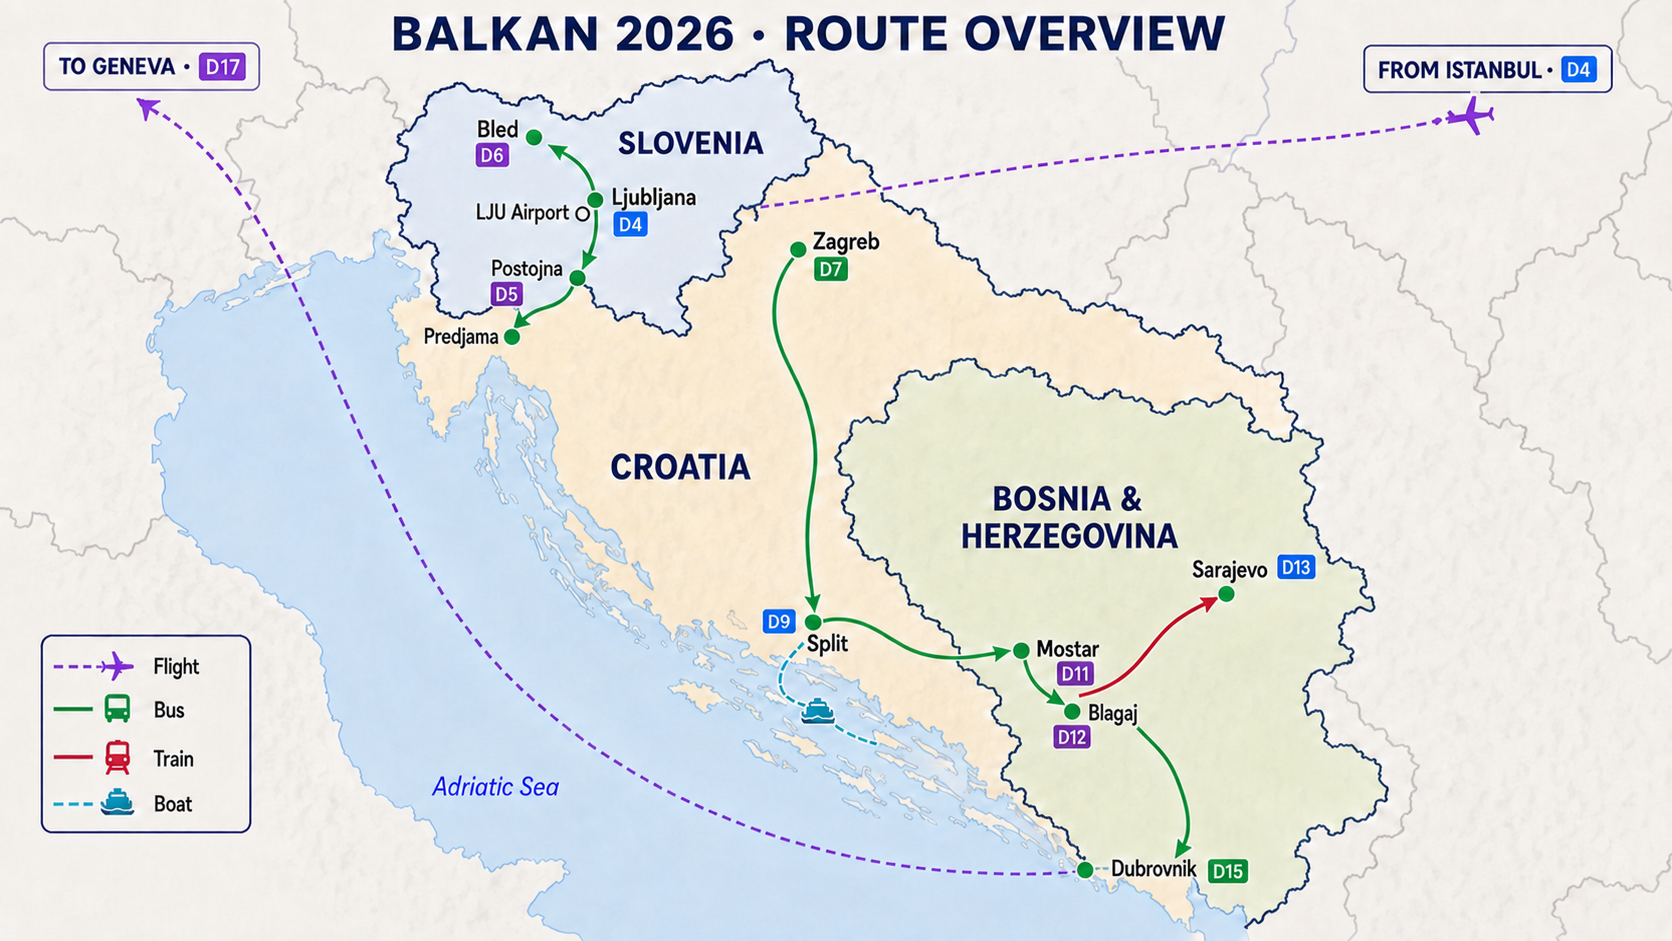
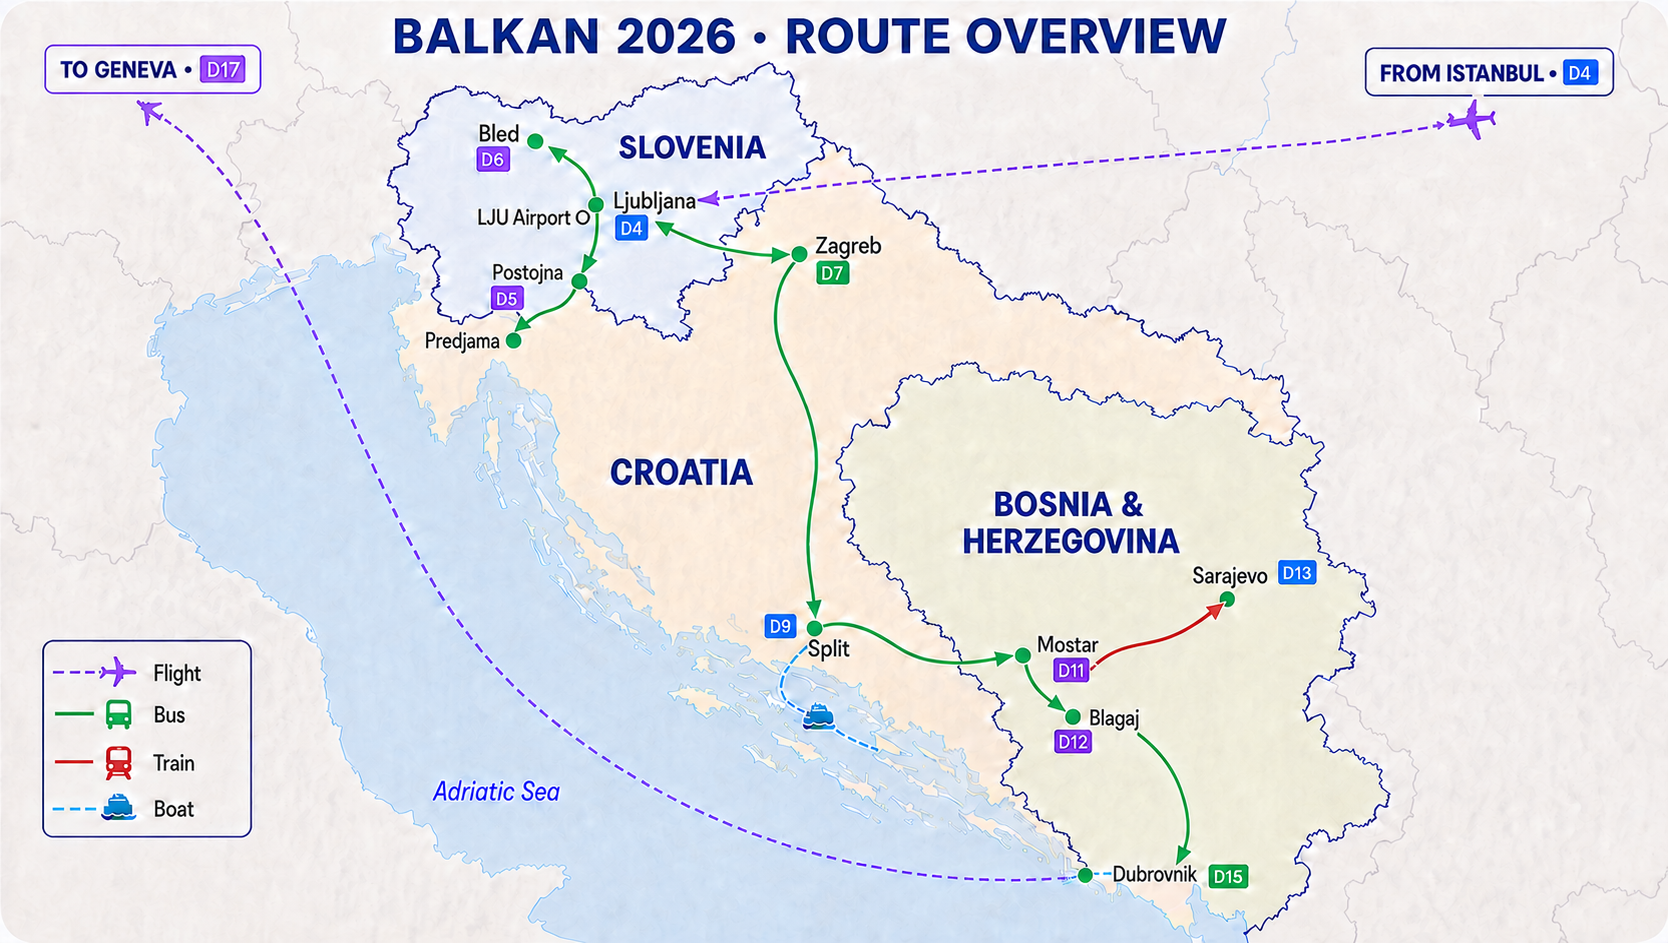
Correct route connections
Connect the D4 flight to Ljubljana, add the D7 bus route,
and correct the D13 train origin to Mostar.

diff --git a/index.html b/index.html
@@ -56,7 +56,7 @@
         <div class="route-cover-head">
           <div><span class="kicker">ROUTE OVERVIEW</span><h2 id="route-cover-title">最新路線規劃</h2></div>
         </div>
-        <img class="route-map-image" src="assets/balkan-route-map-v4.13.png?v=4.13.1" alt="Balkan 2026：Slovenia、Croatia 與 Bosnia 最新交通路線圖">
+        <img class="route-map-image" src="assets/balkan-route-map-v4.13.png?v=4.14.0" alt="Balkan 2026：Slovenia、Croatia 與 Bosnia 最新交通路線圖">
       </section>
 
       <section class="home-cockpit reveal">

diff --git a/sw.js b/sw.js
@@ -1,4 +1,4 @@
-const VERSION='balkan-v4.13.1';
+const VERSION='balkan-v4.14.0';
 const APP_CACHE=`${VERSION}-app`;
 const RUNTIME_CACHE=`${VERSION}-runtime`;
 const APP_SHELL=['./','./index.html','./template/styles.css','./trips/balkan-2026.js','./template/app.js','./manifest.webmanifest','./assets/balkan-route-map-v4.13.png','./assets/hvar-day10.jpg','./assets/icons/icon.svg','./assets/icons/icon-192.png','./assets/icons/icon-512.png','./assets/icons/apple-touch-icon.png'];

diff --git a/trips/balkan-2026.js b/trips/balkan-2026.js
@@ -11,7 +11,7 @@ window.TRIP_DATA = {
     "bags": "Allpa 35L × 2",
     "returnPrice": 32242,
     "currency": "TWD",
-    "version": "4.13.1"
+    "version": "4.14.0"
   },
   "route": [
     "Taipei",

diff --git a/README.md b/README.md
@@ -1,4 +1,10 @@
-# Balkan Trip Dashboard v4.13.1
+# Balkan Trip Dashboard v4.14.0
+
+## v4.14.0 更新
+
+- D4 Istanbul 航線完整連接至 Ljubljana。
+- 補上 D7 Ljubljana → Zagreb 巴士路線。
+- D13 火車路線更正為 Mostar → Sarajevo，不再由 Blagaj 起線。
 
 ## v4.13.1 更新
 
